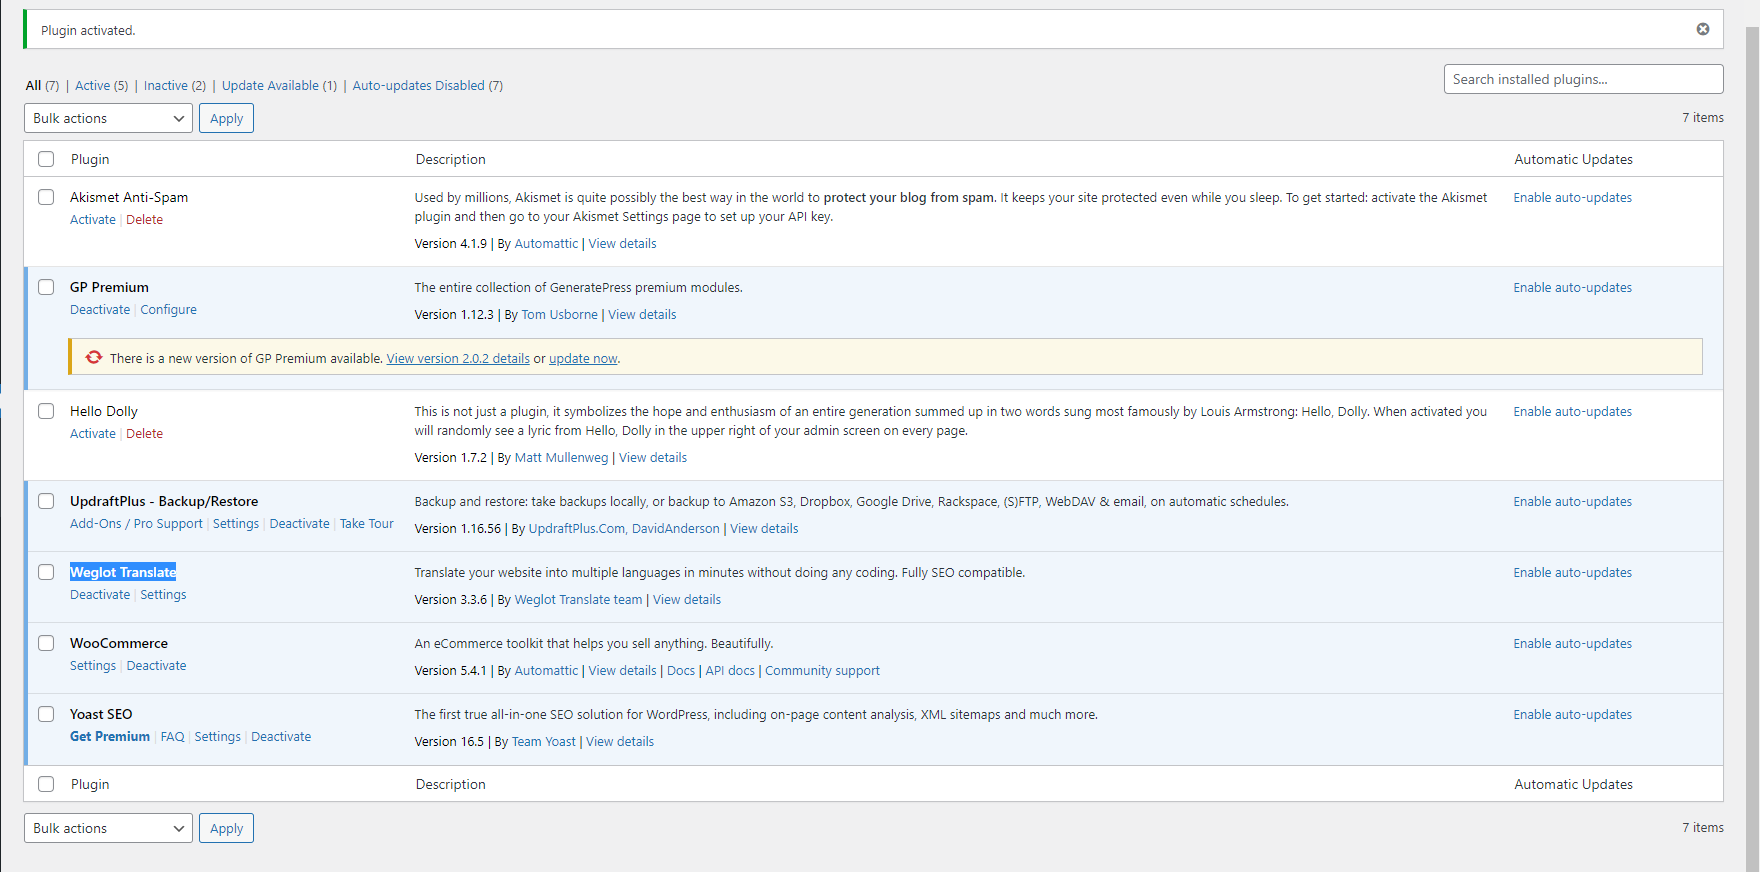
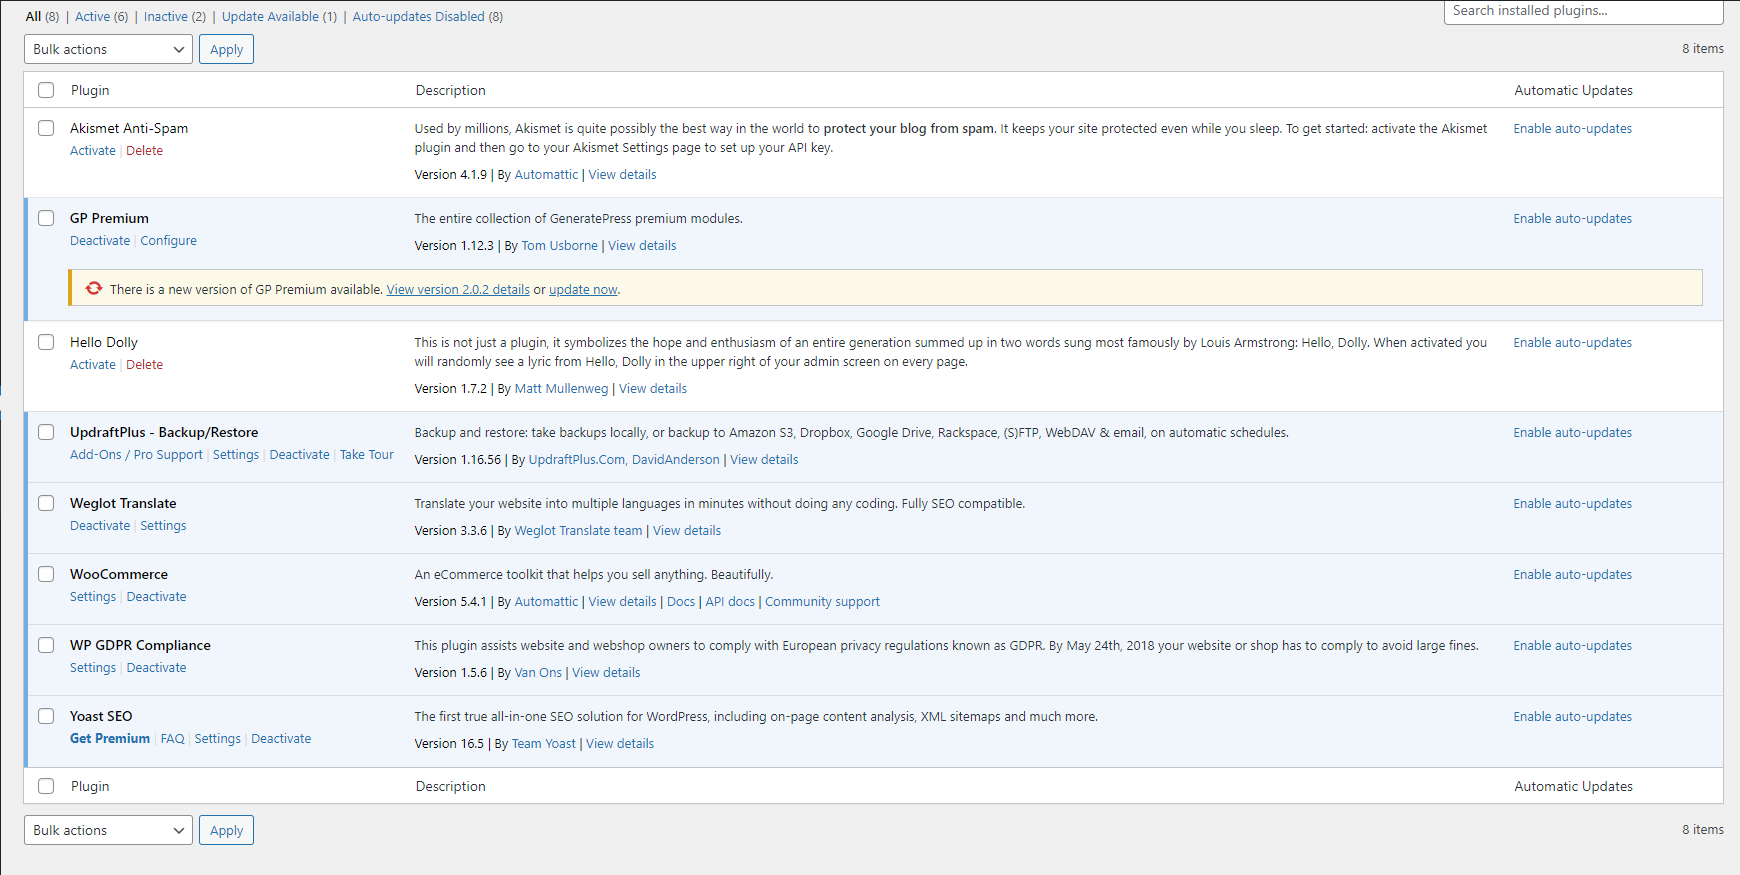
added readme | add screenshots

diff --git a/brief-8/Readme.md b/brief-8/Readme.md
@@ -1,0 +1,32 @@
+## Installation
+- Telecharger le zip [Wordpress](https://wordpress.org/)
+ et l'extraire
+- Créer la base de données `PB8` sur MySQL
+- Utiliser un webserver (eg: Apache, Xampp..) pour héberger l'application, 
+`http://pb8/`
+
+## Authentification
+root 
+1234
+
+## Plugins
+![Plugins](./shots/plugins.png)
+- **Blocksy Companion**: Un plugin pour accompagner le theme *Blocksy* et apporter des améliorations.
+- **Elementor**: Un éditeur drag & drop
+- **Weglot Translate**: Sert à traduire le site web selon la localization de l'utilisateur grace aux APIs *Google Translate* ou *Deepl*
+- **WooCommerce**: Un tool-kit qui facilite la gestion d'un site eCommerce.
+- **Yoast SEO**: Un plugin qui aide à optimizer le SEO du site web, et s'intègre avec WooCommerce pour atteindre plus d'utilisateurs.
+- **WP GDPR Compliance** : Ce plugin aide les propriétaires de sites Web et de boutiques en ligne à se conformer à la réglementation européenne en matière de protection de la vie privée, connue sous le nom de GDPR. D'ici le 24 mai 2018, votre site web ou votre boutique en ligne doit être conforme pour éviter de lourdes amendes.
+## Screenshots
+***
+### **Home**
+![Home](./shots/Home.jpeg)
+***
+### **Shop**
+![Home](./shots/account.jpeg)
+***
+### **plugins**
+![Home](./shots/Plugins.jpeg)
+***
+### **shop**
+![Home](./shots/shop.jpeg)
